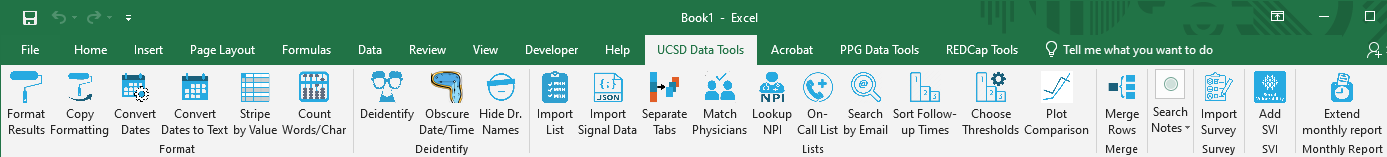
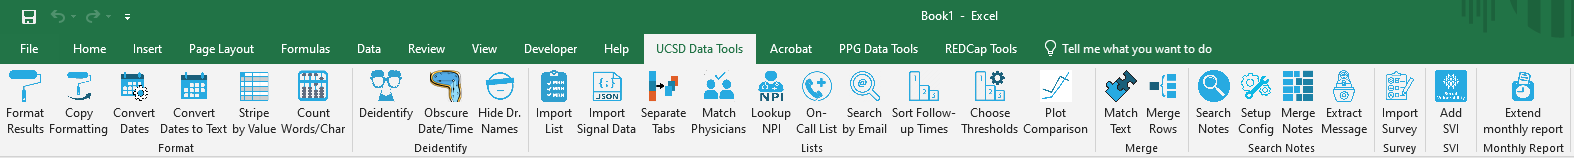
Handle translated characters in REDCap text.

diff --git a/DECS Excel Add-Ins/TextMatcher.cs b/DECS Excel Add-Ins/TextMatcher.cs
@@ -2,7 +2,6 @@
 using System;
 using System.Collections.Generic;
 using System.Linq;
-using System.Runtime.Remoting.Messaging;
 using System.Text.RegularExpressions;
 using System.Windows.Forms;
 using Worksheet = Microsoft.Office.Interop.Excel.Worksheet;
@@ -20,16 +19,20 @@ namespace DECS_Excel_Add_Ins
 
         private Range crossReferenceRow;
 
+        private char ASCII_QUOTE = (char)39;
+        private string COPYRIGHT = @"©";
+        private string REDCap_COPYRIGHT = @"Â©";
+        private char UNICODE_QUOTE = (char)8217;
+
         private Regex chunkExtractor;
-        private const string chunkPattern = @"(\>[^\<\>]{3,}\<)+";
+        private const string CHUNK_PATTERN = @"(\>[^\<\>]{3,}\<)+";
         private Regex idExtractor;
-        private const string idPattern = @"(?:icr)*(?:nc)*(?:message)*(?<id>[\d\w]*)(?:message)*";
-        //private Regex idExtractorAlt;
-        //private const string idPatternAlt = @"nc(?<id>[\d\w]*)message";
+        private const string ID_PATTERN = @"(?:icr)*(?:nc)*(?:message)*(?<id>[\d\w]*)(?:message)*";
         private Regex providerExtractor;
-        private const string providerPattern = @"Provider reply:<\/strong><br><br \/><span style=""font-weight: normal;""(?<provider_reply>.*)";
+        private const string PROVIDER_PATTERN = @"Provider reply:<\/strong><br><br \/><span style=""font-weight: normal;"">(?<providerReply>.*)<\/span><\/p><\/div>";
+        private const string REDACTED = "Redacted";
         private Regex replyExtractor;
-        private const string replyPattern = @"\>(?<reply>(\d|\s|\w|,|\.|\<\d|(?<!\w)\>|\/|\(|\)|\[|\]|'|""|\?|!|:|\*|\-)*)";
+        private const string REPLY_PATTERN = @"(?<reply>(\d|\s|\w|,|\.|\<\d|(?<!\w)\>|\/|\(|\)|\[|\]|'|""|\?|!|:|;|\*|\-)*)";
 
         private List<string> redcapMessagesMatched;
 
@@ -44,11 +47,14 @@ namespace DECS_Excel_Add_Ins
             crossReferenceRow.Offset[0, 1].Value = "ART SPARK ID";
             crossReferenceRow.Offset[0, 1].ColumnWidth = 14;
 
-            crossReferenceRow.Offset[0, 2].Value = "REDCap Text";
-            crossReferenceRow.Offset[0, 2].ColumnWidth = 75;
+            crossReferenceRow.Offset[0, 2].Value = "# ART SPARK Msgs matched";
+            crossReferenceRow.Offset[0, 2].ColumnWidth = 14;
 
-            crossReferenceRow.Offset[0, 3].Value = "ART SPARK Text";
+            crossReferenceRow.Offset[0, 3].Value = "REDCap Text";
             crossReferenceRow.Offset[0, 3].ColumnWidth = 75;
+
+            crossReferenceRow.Offset[0, 4].Value = "ART SPARK Text";
+            crossReferenceRow.Offset[0, 4].ColumnWidth = 75;
 
             crossReferenceRow.Font.Bold = true;
 
@@ -60,11 +66,10 @@ namespace DECS_Excel_Add_Ins
 
         private void BuildRegex()
         {
-            chunkExtractor = new Regex(chunkPattern);
-            idExtractor = new Regex(idPattern);
-            //idExtractorAlt = new Regex(idPatternAlt);
-            providerExtractor = new Regex(providerPattern);
-            replyExtractor = new Regex(replyPattern);
+            chunkExtractor = new Regex(CHUNK_PATTERN);
+            idExtractor = new Regex(ID_PATTERN);
+            providerExtractor = new Regex(PROVIDER_PATTERN);
+            replyExtractor = new Regex(REPLY_PATTERN);
         }
 
         private string GetREDCapID(string redcapIdFull)
@@ -93,17 +98,17 @@ namespace DECS_Excel_Add_Ins
 
             if (providerMatch.Success)
             {
-                string provider_reply = providerMatch.Groups["provider_reply"].Value;
+                string providerReply = providerMatch.Groups["providerReply"].Value;
 
-                if (!string.IsNullOrEmpty(provider_reply))
+                if (!string.IsNullOrEmpty(providerReply))
                 {
-                    foreach (Match match in replyExtractor.Matches(provider_reply))
+                    foreach (Match match in replyExtractor.Matches(providerReply))
                     {
                         if (match.Success)
                         {
                             string piece = match.Groups["reply"].Value;
 
-                            if (!string.IsNullOrEmpty(piece))
+                            if (!string.IsNullOrEmpty(piece) && !string.Equals(piece, REDACTED))
                             {
                                 replyPieces.Add(piece);
                             }
@@ -163,6 +168,10 @@ namespace DECS_Excel_Add_Ins
                     // These are the only lines with message text.
                     if (redcapText.StartsWith("<div class"))
                     {
+                        // REDCap apparently injects an additional char before the © symbol.
+                        // Fix that here or it will break matches.
+                        redcapText = redcapText.Replace(REDCap_COPYRIGHT, COPYRIGHT);
+
                         redcapID = GetREDCapID(redcapIdColumn.Offset[rowOffset, 0].Value);
 
                         // If we've already seen this one, skip it.
@@ -195,29 +204,48 @@ namespace DECS_Excel_Add_Ins
                 int rowOffset = 0;
                 string artSparkID = string.Empty;
                 string artSparkText = string.Empty;
+                int numMatchesForThisREDCapMsg = 0;
+                List<string> artSparkIDsSeen = new List<string>();
 
                 // Find the given text in the ART SPARK column.
                 while (true)
                 {
                     rowOffset++;
+                    crossReferenceRow.Offset[0, 2].Value = numMatchesForThisREDCapMsg.ToString();
 
                     try
                     {
+                        // Even if no matches, show what we TRIED to match.
+                        crossReferenceRow.Value = redcapID;
+                        crossReferenceRow.Offset[0, 3].Value = string.Join(", ", replyPieces);
+
                         artSparkID = artSparkIdColumn.Offset[rowOffset, 0].Value.ToString();
+
+                        // If we've already tested this ART SPARK message, no need to test it again.
+                        if (artSparkIDsSeen.Contains(artSparkID))
+                        {
+                            continue;
+                        }
+
+                        artSparkIDsSeen.Add(artSparkID);
                         artSparkText = artSparkTextColumn.Offset[rowOffset, 0].Value;
+
+                        // Don't get confused by fancy UNICODE quotes (which apparently get translated in REDCap extraction.)
+                        artSparkText = artSparkText.Replace(UNICODE_QUOTE, ASCII_QUOTE);
 
                         // Are each of the reply pieces present in the original ART SPARK text?
                         if (replyPieces.All(piece => artSparkText.Contains(piece)))
                         {
+                            numMatchesForThisREDCapMsg++;
                             crossReferenceRow.Value = redcapID;
                             crossReferenceRow.Offset[0, 1].Value = artSparkID;
-                            crossReferenceRow.Offset[0, 2].Value = string.Join(", ", replyPieces);
-                            crossReferenceRow.Offset[0, 3].Value = artSparkText;
+                            crossReferenceRow.Offset[0, 2].Value = numMatchesForThisREDCapMsg.ToString();
+                            crossReferenceRow.Offset[0, 3].Value = string.Join(", ", replyPieces);
+                            crossReferenceRow.Offset[0, 4].Value = artSparkText;
                             crossReferenceRow = crossReferenceRow.Offset[1, 0];
 
                             // No need to match this one if we see it again.
                             redcapMessagesMatched.Add(redcapID);
-                            break;
                         }
                     }
                     catch (System.NullReferenceException)
@@ -226,9 +254,15 @@ namespace DECS_Excel_Add_Ins
                     }
                     catch (Microsoft.CSharp.RuntimeBinder.RuntimeBinderException)
                     {
+                        if (numMatchesForThisREDCapMsg == 0)
+                        {
+                            // Move to the next row.
+                            crossReferenceRow = crossReferenceRow.Offset[1, 0];
+                        }
+
                         break;
                     }
-                }
+                }               
             }
         }
 

diff --git a/DECS Excel Add-Ins/README.md b/DECS Excel Add-Ins/README.md
@@ -22,6 +22,7 @@ Creates custom buttons in Microsoft Excel that allow user to:
 * Turn text like "2-3 weeks" into a category like "routine/medium/high" [priority].
 * Set thresholds for text parsing into priorities.
 * Plot comparisons between multiple timeseries.
+* Match text.
 * [Merge rows](./help%20files/MergeRows/MergeRows.md) across dates.
 * Extract the payload from a message.
 * [Scan `Notes` fields](./help%20files/SearchNotes/SearchNotes.md) for keywords, creating new columns.
